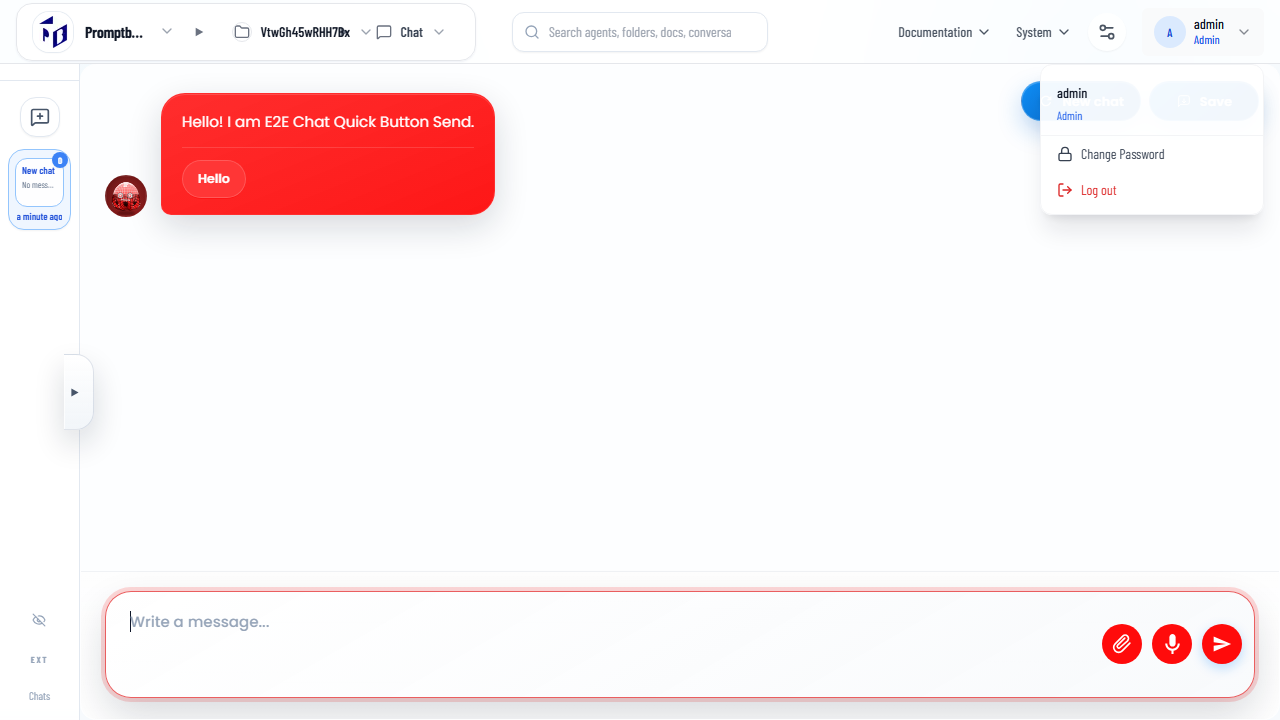
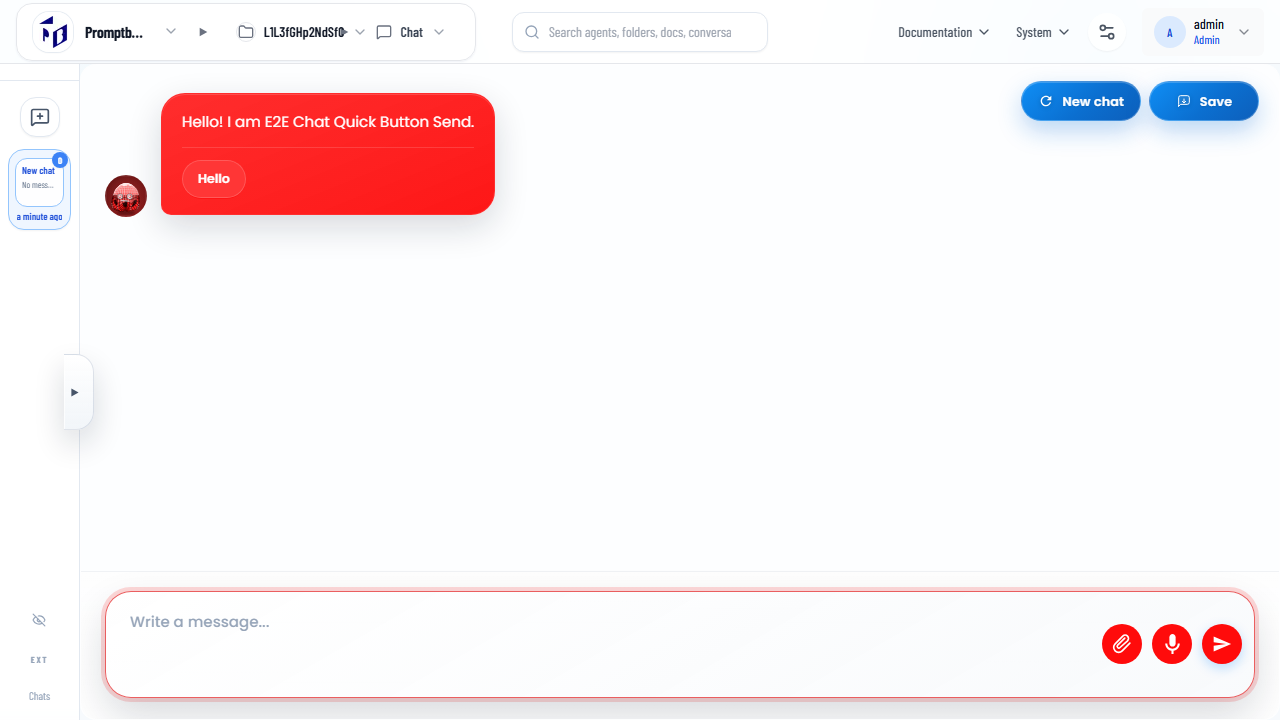
Autogenerated

diff --git a/other/integration-tests/videos/chat-history-navigation-Ag-dad4e--from-the-durable-chat-page-chromium/error-context.md b/other/integration-tests/videos/chat-history-navigation-Ag-dad4e--from-the-durable-chat-page-chromium/error-context.md
@@ -14,10 +14,10 @@
             - button "Switch server" [ref=e14] [cursor=pointer]:
               - img [ref=e15]
           - img [ref=e17]
-          - button "VtwGh45wRHH7Bx" [ref=e21] [cursor=pointer]:
+          - button "L1L3fGHp2NdSfC" [ref=e21] [cursor=pointer]:
             - generic [ref=e22]:
               - img [ref=e24]
-              - generic [ref=e26]: VtwGh45wRHH7Bx
+              - generic [ref=e26]: L1L3fGHp2NdSfC
             - img [ref=e27]
           - img [ref=e29]
           - button "Chat" [ref=e33] [cursor=pointer]:
@@ -41,74 +41,63 @@
           - button "Open global control panel" [ref=e57] [cursor=pointer]:
             - img [ref=e58]
             - generic [ref=e61]: Control panel
-          - generic [ref=e63]:
-            - button "A admin Admin" [expanded] [ref=e64] [cursor=pointer]:
-              - generic [ref=e66]: A
-              - generic [ref=e67]:
-                - generic [ref=e68]: admin
-                - generic [ref=e69]: Admin
-              - img [ref=e70]
-            - generic [ref=e72]:
-              - generic [ref=e73]:
-                - paragraph [ref=e74]: admin
-                - paragraph [ref=e75]: Admin
-              - button "Change Password" [ref=e76] [cursor=pointer]:
-                - img [ref=e77]
-                - text: Change Password
-              - button "Log out" [ref=e80] [cursor=pointer]:
-                - img [ref=e81]
-                - text: Log out
-    - main [ref=e84]:
-      - main [ref=e85]:
-        - generic [ref=e86]:
-          - complementary [ref=e87]:
-            - button "Expand sidebar" [ref=e89] [cursor=pointer]:
-              - img [ref=e90]
-            - generic [ref=e93]:
-              - link "New chat" [ref=e94] [cursor=pointer]:
-                - /url: /agents/VtwGh45wRHH7Bx/chat?chat=new
-                - img [ref=e95]
-              - button "New chat (0 messages, a minute ago)" [ref=e98] [cursor=pointer]:
-                - generic "0 messages" [ref=e100]: "0"
-                - generic [ref=e101]:
-                  - generic [ref=e102]: New chat
-                  - generic [ref=e103]: No messages yet
-                - generic [ref=e104]: a minute ago
-              - generic [ref=e105]:
-                - button "Hide empty chats" [ref=e106] [cursor=pointer]:
-                  - img [ref=e107]
-                - button "EXT" [ref=e112] [cursor=pointer]
-              - paragraph [ref=e113]: Chats
-          - generic [ref=e118]:
+          - button "A admin Admin" [ref=e64] [cursor=pointer]:
+            - generic [ref=e66]: A
+            - generic [ref=e67]:
+              - generic [ref=e68]: admin
+              - generic [ref=e69]: Admin
+            - img [ref=e70]
+    - main [ref=e72]:
+      - main [ref=e73]:
+        - generic [ref=e74]:
+          - complementary [ref=e75]:
+            - button "Expand sidebar" [ref=e77] [cursor=pointer]:
+              - img [ref=e78]
+            - generic [ref=e81]:
+              - link "New chat" [ref=e82] [cursor=pointer]:
+                - /url: /agents/L1L3fGHp2NdSfC/chat?chat=new
+                - img [ref=e83]
+              - button "New chat (0 messages, a minute ago)" [ref=e86] [cursor=pointer]:
+                - generic "0 messages" [ref=e88]: "0"
+                - generic [ref=e89]:
+                  - generic [ref=e90]: New chat
+                  - generic [ref=e91]: No messages yet
+                - generic [ref=e92]: a minute ago
+              - generic [ref=e93]:
+                - button "Hide empty chats" [ref=e94] [cursor=pointer]:
+                  - img [ref=e95]
+                - button "EXT" [ref=e100] [cursor=pointer]
+              - paragraph [ref=e101]: Chats
+          - generic [ref=e106]:
+            - generic [ref=e108]:
+              - link "New chat" [ref=e109] [cursor=pointer]:
+                - /url: /agents/L1L3fGHp2NdSfC/chat?chat=new
+                - img [ref=e110]
+                - generic [ref=e112]: New chat
+              - button "Save" [ref=e114] [cursor=pointer]:
+                - img [ref=e115]
+                - generic [ref=e118]: Save
             - generic [ref=e120]:
-              - link "New chat" [ref=e121] [cursor=pointer]:
-                - /url: /agents/VtwGh45wRHH7Bx/chat?chat=new
-                - img [ref=e122]
-                - generic [ref=e124]: New chat
-              - button "Save" [ref=e126] [cursor=pointer]:
-                - img [ref=e127]
-                - generic [ref=e130]: Save
-            - generic [ref=e132]:
-              - generic "E2E Chat Quick Button Send" [ref=e134]
-              - generic [ref=e136]:
-                - generic [ref=e137]:
-                  - button "Read message aloud" [ref=e138] [cursor=pointer]:
-                    - img [ref=e139]
-                  - button "Copy message" [ref=e141] [cursor=pointer]:
-                    - img [ref=e142]
-                - paragraph [ref=e147]: Hello! I am E2E Chat Quick Button Send.
-                - button "Hello" [ref=e149] [cursor=pointer]:
-                  - paragraph [ref=e151]: Hello
-                - generic [ref=e153] [cursor=pointer]: ⭐
-            - generic [ref=e156]:
-              - textbox "Write a message..." [active] [ref=e157]
-              - button "Attach file" [ref=e158] [cursor=pointer]:
-                - img [ref=e159]
-              - button "Start dictation" [ref=e161] [cursor=pointer]:
-                - img [ref=e162]
-              - button [ref=e165] [cursor=pointer]:
-                - img [ref=e166]
+              - generic "E2E Chat Quick Button Send" [ref=e122]
+              - generic [ref=e124]:
+                - generic [ref=e125]:
+                  - button "Read message aloud" [ref=e126] [cursor=pointer]:
+                    - img [ref=e127]
+                  - button "Copy message" [ref=e129] [cursor=pointer]:
+                    - img [ref=e130]
+                - paragraph [ref=e135]: Hello! I am E2E Chat Quick Button Send.
+                - button "Hello" [ref=e137] [cursor=pointer]:
+                  - paragraph [ref=e139]: Hello
+                - generic [ref=e141] [cursor=pointer]: ⭐
+            - generic [ref=e144]:
+              - textbox "Write a message..." [active] [ref=e145]
+              - button "Attach file" [ref=e146] [cursor=pointer]:
+                - img [ref=e147]
+              - button "Start dictation" [ref=e149] [cursor=pointer]:
+                - img [ref=e150]
+              - button [ref=e153] [cursor=pointer]:
+                - img [ref=e154]
   - generic:
     - region "Notifications"
-  - alert [ref=e168]
+  - alert [ref=e156]
 ```